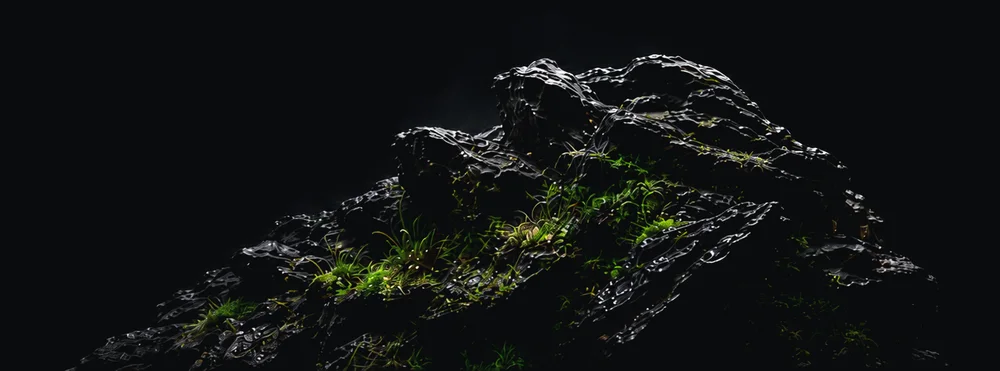
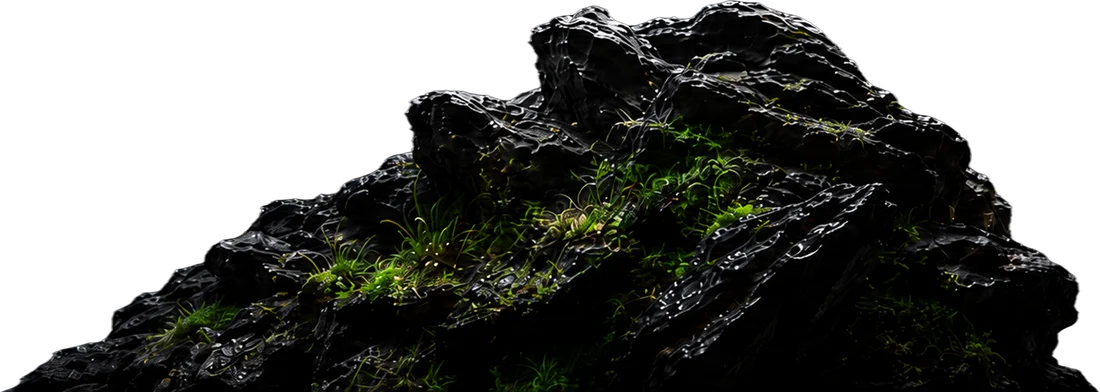
Safety: kameň ako transparentné PNG (skala1) na pozadí sekcie — žiadny box ani overlay mess, prirodzene splýva s tmou; vycentrovaný, jemný left-fade pre text

diff --git a/app/globals.css b/app/globals.css
@@ -4903,8 +4903,8 @@ button:focus-visible {
 .safety__bg {
   position: absolute;
   inset: 0;
-  /* výrez skaly, menší → dá sa posunúť do stredu (mimo štatov vpravo); neškáluje so šírkou */
-  background: url(/img/safety-rock-m.webp) no-repeat 42% center / auto 96%;
+  /* transparentný PNG kameňa na pozadí sekcie → žiadny box; vycentrovaný, neškáluje so šírkou */
+  background: url(/img/safety-rock.webp) no-repeat 47% center / auto 100%;
 }
 .safety__bg::after {
   content: "";
@@ -4913,8 +4913,8 @@ button:focus-visible {
   background: linear-gradient(
     90deg,
     var(--bg) 0%,
-    rgba(10, 12, 13, 0.65) 34%,
-    transparent 62%
+    rgba(10, 12, 13, 0.5) 26%,
+    transparent 46%
   );
 }
 .safety__grid {